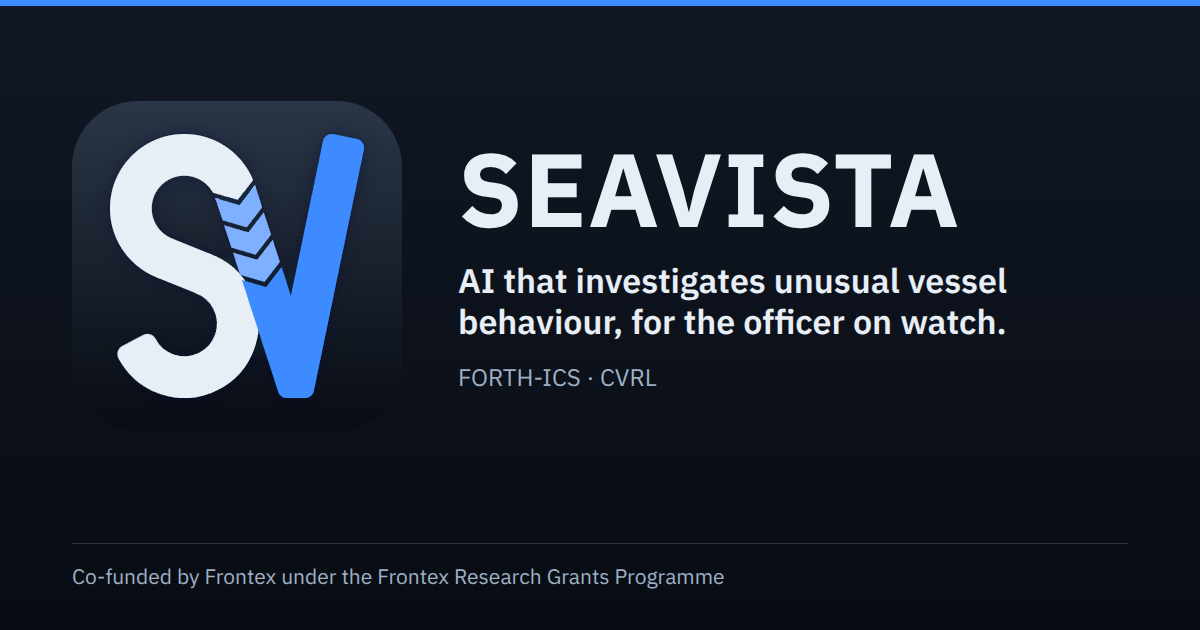
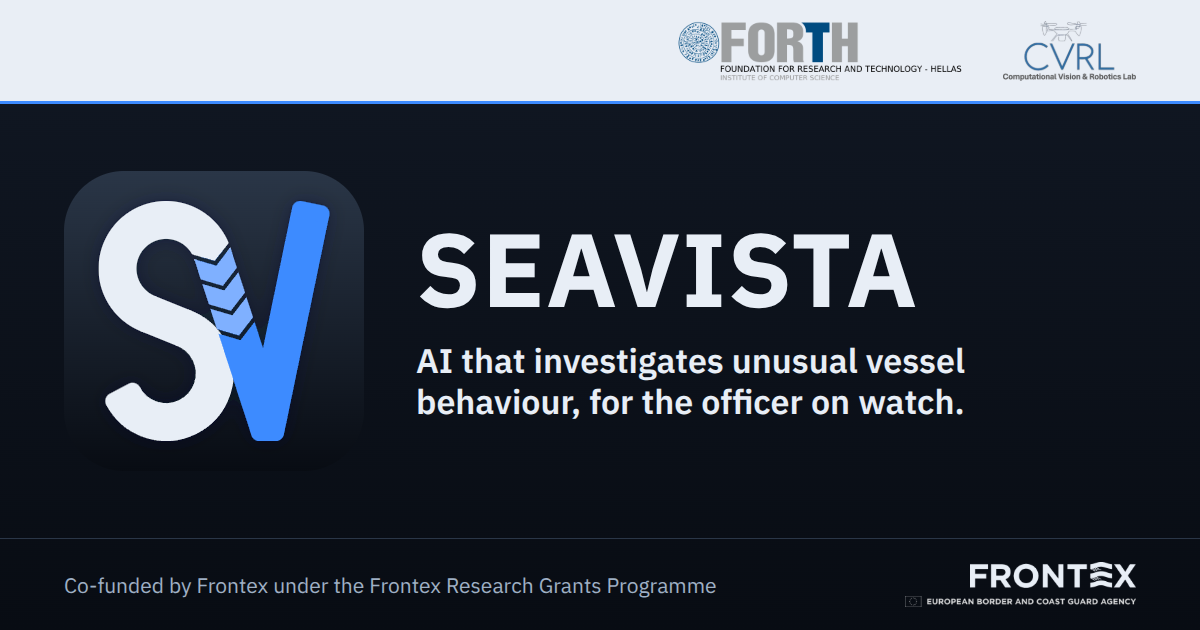
The preview card with all three marks

diff --git a/index.html b/index.html
@@ -15,7 +15,7 @@
 <meta property="og:image" content="https://seavista-r-d.github.io/og-card.png">
 <meta property="og:image:width" content="1200">
 <meta property="og:image:height" content="630">
-<meta property="og:image:alt" content="The SEAVISTA mark beside the name and the line: AI that investigates unusual vessel behaviour, for the officer on watch.">
+<meta property="og:image:alt" content="The SEAVISTA mark beside the name and the line: AI that investigates unusual vessel behaviour, for the officer on watch. FORTH-ICS and CVRL above; co-funded by Frontex under the Frontex Research Grants Programme.">
 <meta name="twitter:card" content="summary_large_image">
 <link rel="stylesheet" href="https://fonts.googleapis.com/css2?family=IBM+Plex+Mono:wght@400;500&family=IBM+Plex+Sans:wght@400;600;700&display=swap">
 <style>
